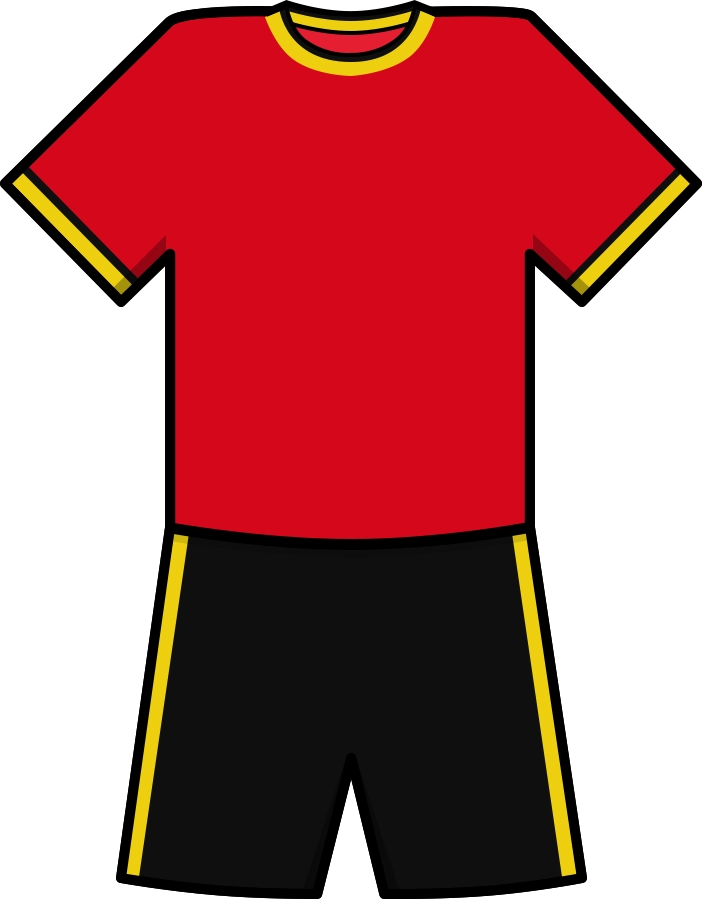
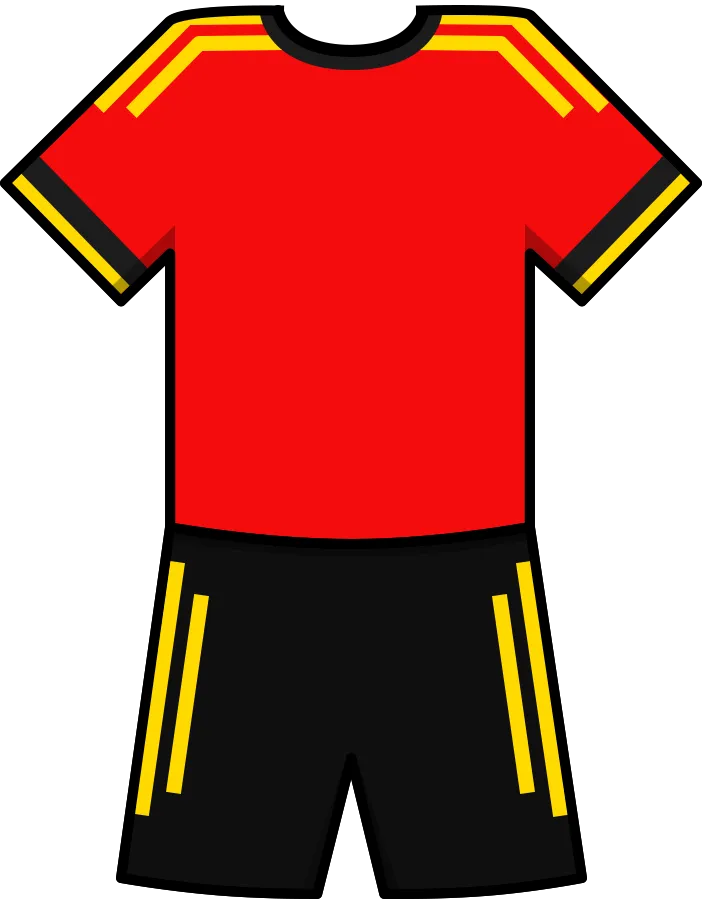
Add updated team kits and colors

diff --git a/src/tests/squadEditor.test.ts b/src/tests/squadEditor.test.ts
@@ -189,7 +189,7 @@ describe('read-only squad scenes', () => {
     });
     expect(northernIrelandStyle?.primaryColor).toBe('#006A3A');
     expect(franceStyle?.primaryColor).toBe('#002654');
-    expect(spainStyle?.primaryColor).toBe('#AA151B');
+    expect(spainStyle?.primaryColor).toBe('#FF0000');
 
     expect(selectSource).toContain("import { getTeamKitAssetKey, getTeamKitStyle } from '../data/teamKits'");
     expect(selectSource).toContain("import { buildTeamColorSwatches } from '../ui/teamColorSwatches'");
